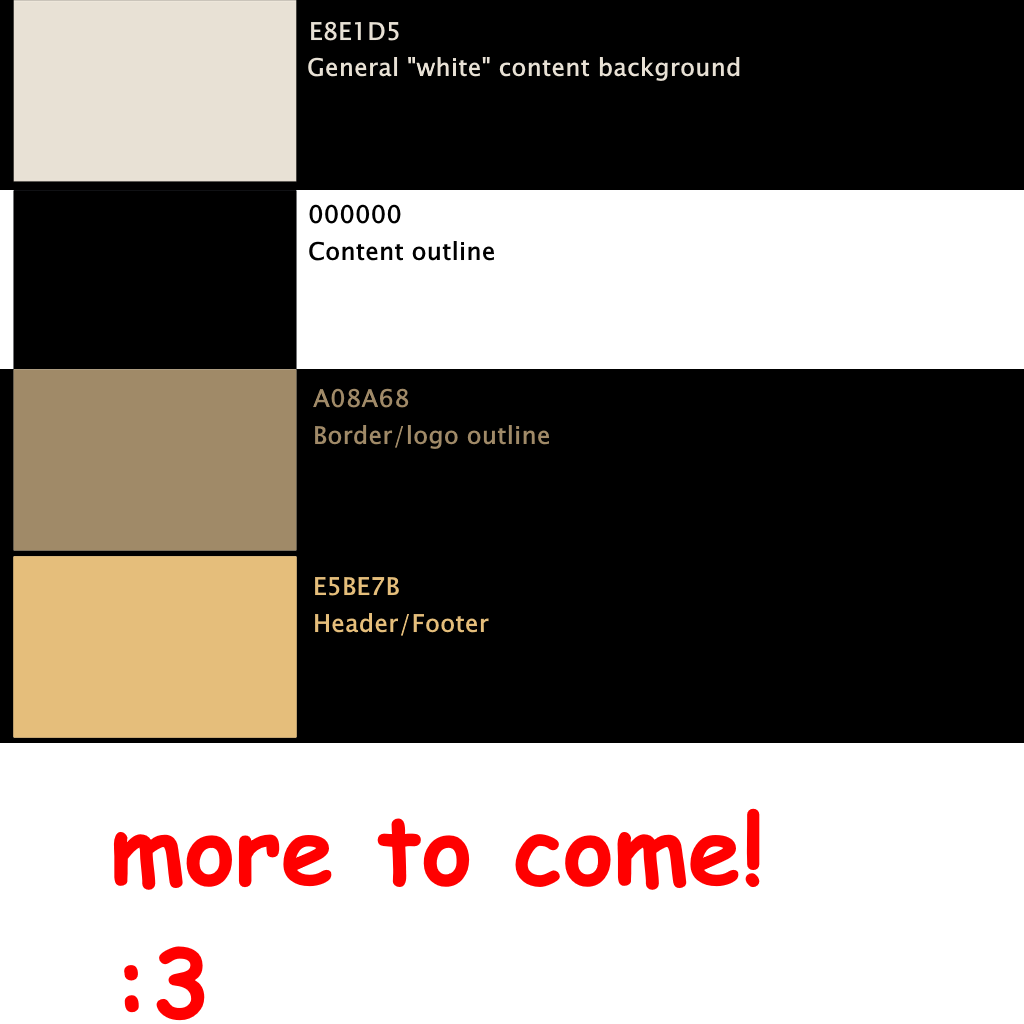
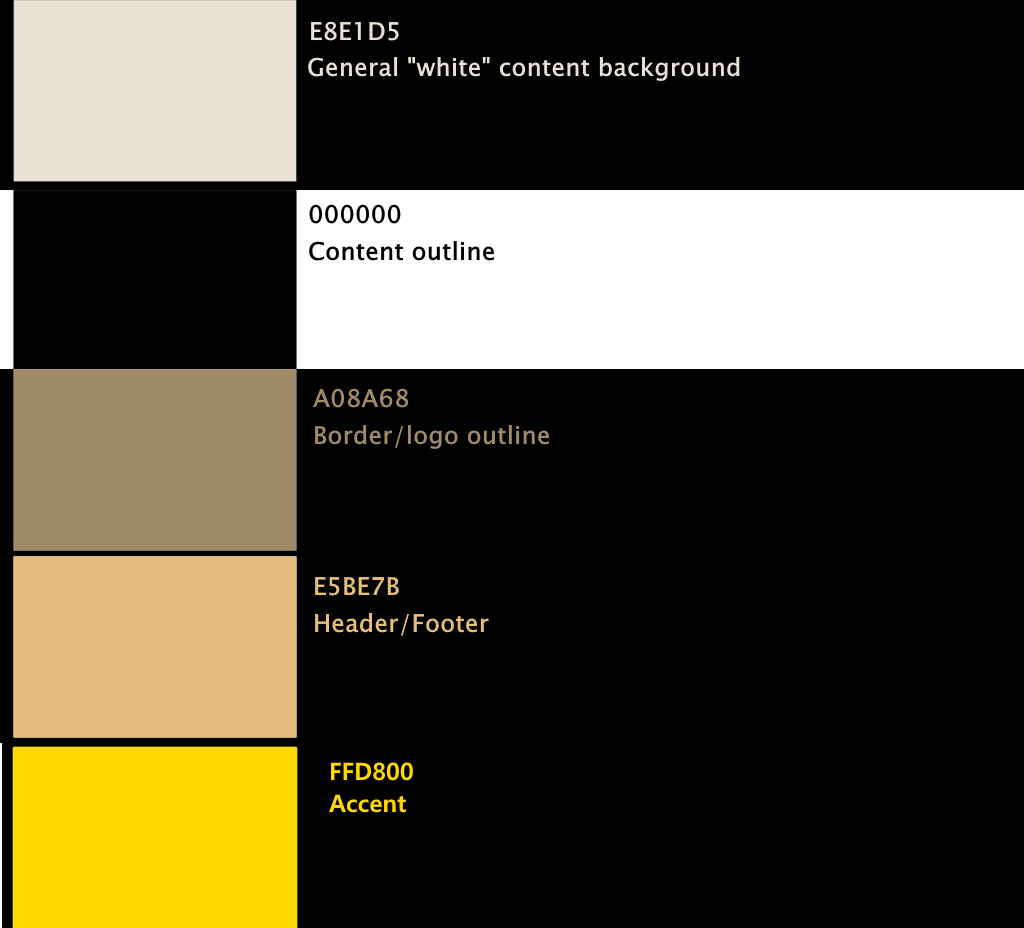
Planering Kanske Klar

diff --git a/planning/planning_and_checklist.md b/planning/planning_and_checklist.md
@@ -5,18 +5,18 @@
     60 minutes fridays
 
 ## Week 1 (2024-02-12) - 3.33/30 hours
-- [ ] Planning
+- [X] Planning
   - [X] Project Brief
   - [X] Initial Research
-  - [ ] Site Layout
-- [ ] Design
+  - [X] Site Layout
+- [X] Design
   - [X] Sketches
   - [X] Style and Palette General Idea
 
 ## Week 2 (2024-02-19) - 6.66/30 hours
-- [ ] Design (cont.)
-  - [ ] Style and Palette Finalization
-  - [ ] Finish Sketches
+- [X] Design (cont.)
+  - [X] Style and Palette Finalization
+  - [X] Finish Sketches
   - [ ] Submit for approval
 
 ## Week 3 (2024-02-26) - 10/30 hours
